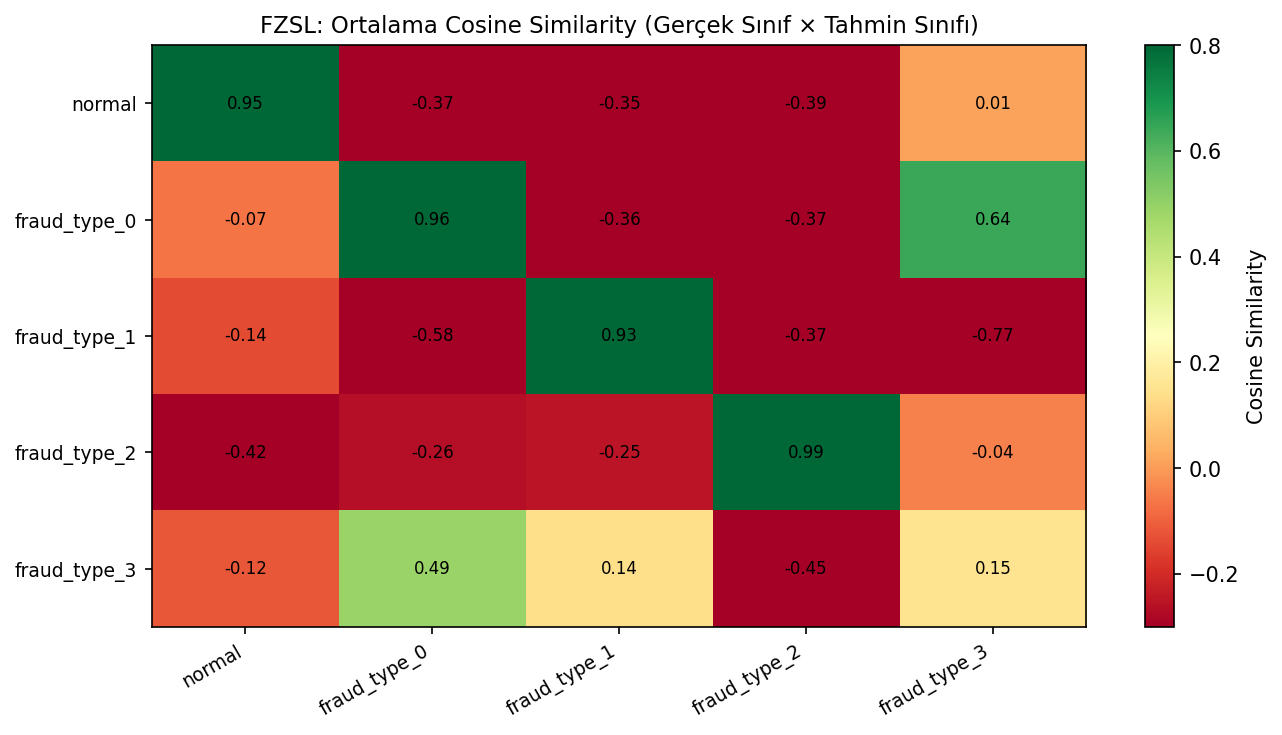
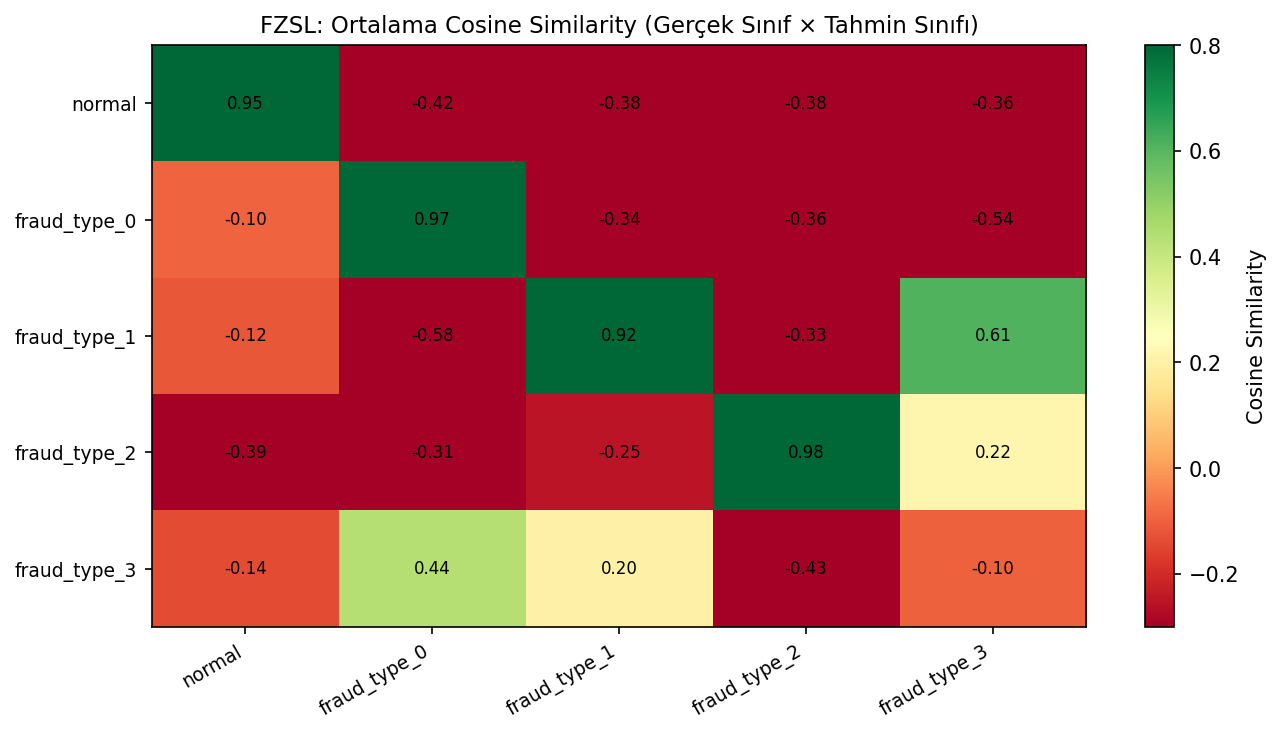
feat: implement Federated Zero-Shot Learning (FZSL) model architecture and utility functions for training and evaluation

diff --git a/src/fl_utils.py b/src/fl_utils.py
@@ -44,13 +44,26 @@ def train_local(model, X, y, epochs=2, lr=1e-3, batch_size=256, device="cpu"):
     return model.state_dict()
 
 
-def fedavg(state_dicts):
-    avg_state = copy.deepcopy(state_dicts[0])
+def fedavg(state_dicts, sample_sizes=None):
+    """
+    FedAvg: İstemci model ağırlıklarını ortalar.
 
+    sample_sizes : Her istemcinin eğitim örnek sayısı listesi.
+                   Verilirse ağırlıklı ortalama (weighted FedAvg) uygulanır;
+                   None ise tüm istemciler eşit ağırlığa sahip olur.
+    """
+    if sample_sizes is None:
+        sample_sizes = [1] * len(state_dicts)
+
+    total_samples = sum(sample_sizes)
+    weights = [s / total_samples for s in sample_sizes]
+
+    avg_state = copy.deepcopy(state_dicts[0])
     for key in avg_state.keys():
-        for i in range(1, len(state_dicts)):
-            avg_state[key] += state_dicts[i][key]
-        avg_state[key] = avg_state[key] / len(state_dicts)
+        # Sıfırdan ağırlıklı toplam yap
+        avg_state[key] = torch.zeros_like(avg_state[key], dtype=torch.float32)
+        for w, sd in zip(weights, state_dicts):
+            avg_state[key] += w * sd[key].float()
 
     return avg_state
 

diff --git a/src/fzsl/train_fzsl.py b/src/fzsl/train_fzsl.py
@@ -464,7 +464,7 @@ def main():
     print("\n" + "=" * 60)
     print("4. Class descriptions embedded with SBERT...")
     print("=" * 60)
-    text_encoder = TextClassEncoder(embed_dim=128, backend="local")
+    text_encoder = TextClassEncoder(embed_dim=128, backend="sbert")
 
     # Tüm sınıflar (seen + unseen) için embedding → inference'da kullanılacak
     all_class_order = SEEN_CLASSES + [UNSEEN_CLASS]
@@ -508,11 +508,13 @@ def main():
     print("\n" + "=" * 60)
     print("6. Zero-shot predictor initializing (seen + unseen)...")
     print("=" * 60)
+    # Predictor'ı önce varsayılan 0.5 threshold ile oluştur
     predictor = FZSLPredictor(
         model=fzsl_model,
         class_text_embeddings=all_text_emb_matrix,
         class_order=all_class_order,
         device=device,
+        optimal_threshold=0.5,  # aşağıda PR eğrisinden optimize edilecek
     )
 
     # ── 7. Değerlendirme ───────────────────────────────────────────────────
@@ -526,14 +528,11 @@ def main():
     opt_thresholds = find_optimal_threshold(y_binary_test, full_fraud_proba, min_recall=0.80)
     best_threshold = opt_thresholds["f1_optimal"]["threshold"]
 
-    # 8a. Tum test seti — threshold=0.5 (baseline)
-    evaluate_zsl_binary(
-        predictor, X_test, y_binary_test, subtypes_test,
-        label="Full Test Set @ threshold=0.5 (baseline)",
-        threshold=0.5
-    )
+    # Bulunan optimal threshold'u predictor'a kaydet
+    predictor.optimal_threshold = best_threshold
+    print(f"   Predictor optimal threshold güncellendi: {best_threshold:.4f}")
 
-    # 8b. Tum test seti — optimal threshold
+    # Tum test seti — optimal threshold (tek referans noktası)
     evaluate_zsl_binary(
         predictor, X_test, y_binary_test, subtypes_test,
         label="Full Test Set @ Optimal F1 Threshold",

diff --git a/src/fzsl/fzsl_model.py b/src/fzsl/fzsl_model.py
@@ -149,10 +149,12 @@ class FZSLPredictor:
         class_text_embeddings: np.ndarray,   # [num_all_classes, text_dim]
         class_order: list,                   # class isimlerinin sırası
         device: str = "cpu",
+        optimal_threshold: float = 0.5,      # find_optimal_threshold ile ayarlanabilir
     ):
         self.model = model.to(device)
         self.device = device
         self.class_order = class_order
+        self.optimal_threshold = optimal_threshold
 
         # Text embedding'leri cihaza taşı ve model projection'dan geçir
         self.model.eval()
@@ -202,3 +204,13 @@ class FZSLPredictor:
         fraud_proba = proba[:, fraud_indices].sum(axis=1)
 
         return fraud_proba
+
+    def predict_fraud(self, X: np.ndarray, threshold: float = None) -> np.ndarray:
+        """
+        Binary fraud tahmini.
+
+        threshold : None ise self.optimal_threshold kullanılır.
+        Dönüş   : np.array [N] — 0=normal, 1=fraud
+        """
+        thr = threshold if threshold is not None else self.optimal_threshold
+        return (self.is_fraud_proba(X) >= thr).astype(int)

diff --git a/src/train_fl.py b/src/train_fl.py
@@ -95,7 +95,9 @@ def main():
             )
             local_states.append(local_state)
 
-        new_global_state = fedavg(local_states)
+        # Her client'ın ornek sayisina gore agirlikli FedAvg
+        sample_sizes = [len(client_X) for client_X, _ in clients]
+        new_global_state = fedavg(local_states, sample_sizes=sample_sizes)
         global_model.load_state_dict(new_global_state)
 
         print("\nThreshold = 0.5 sonuçları:")